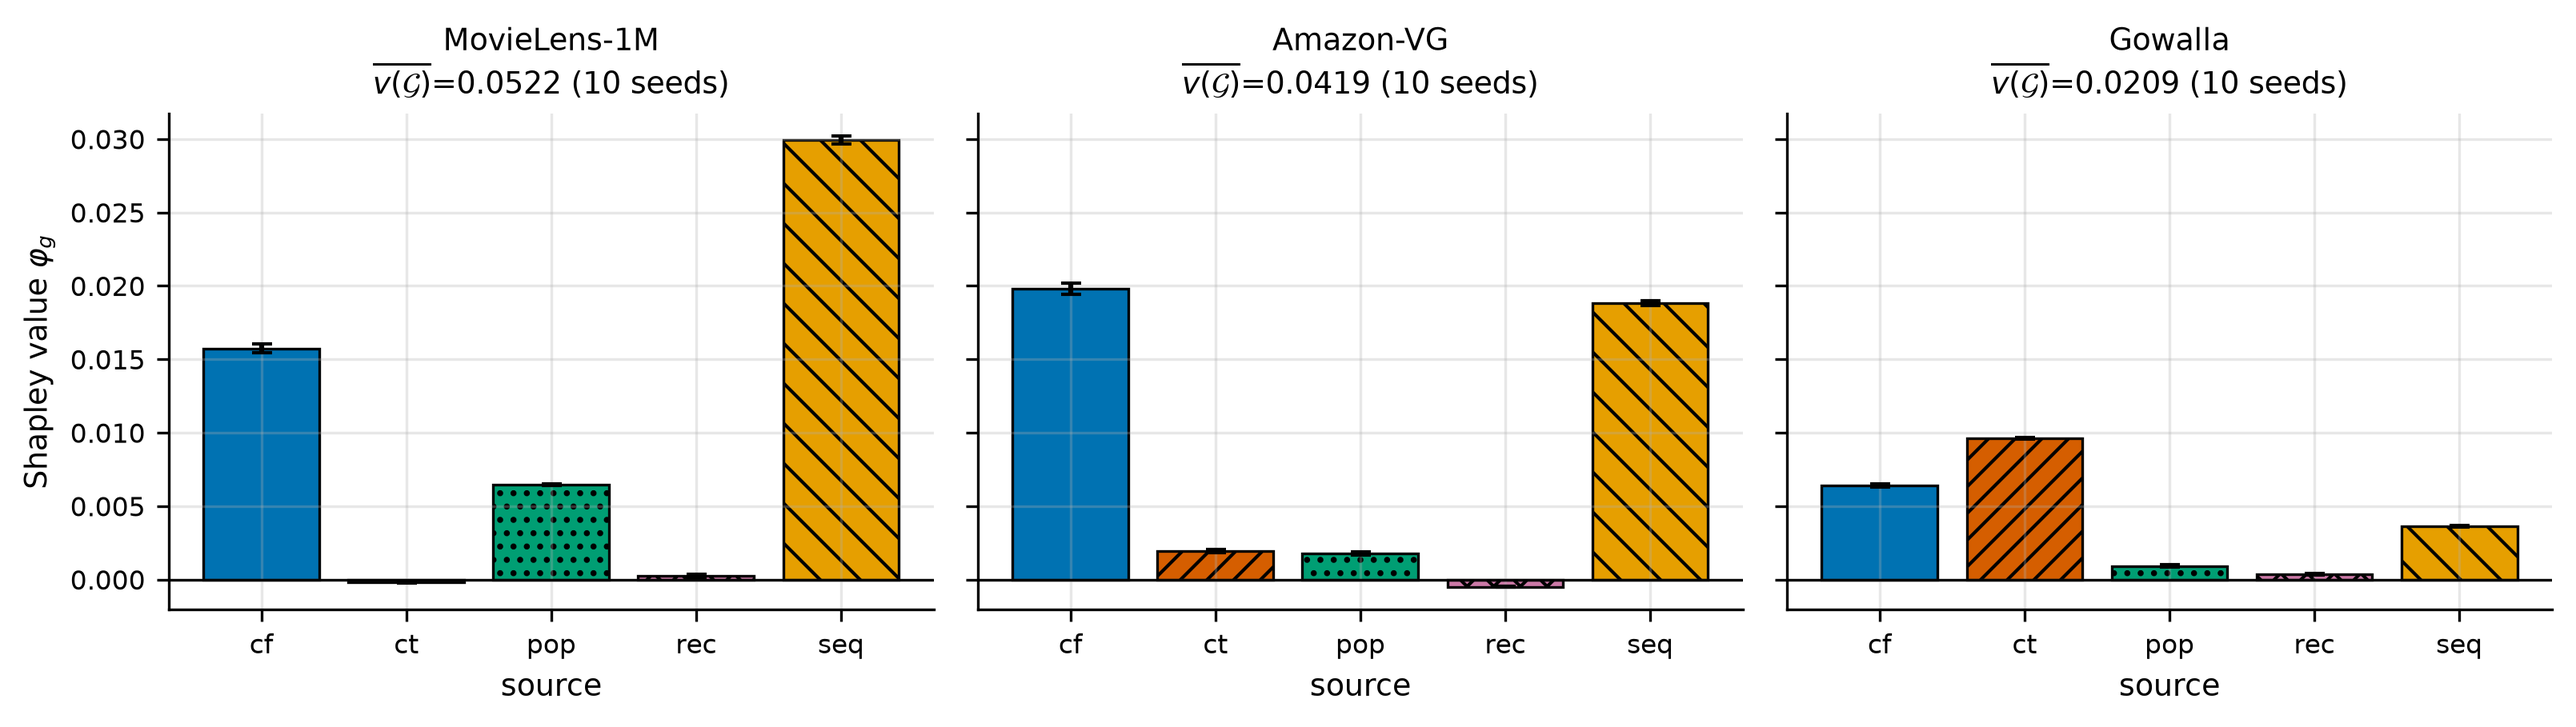
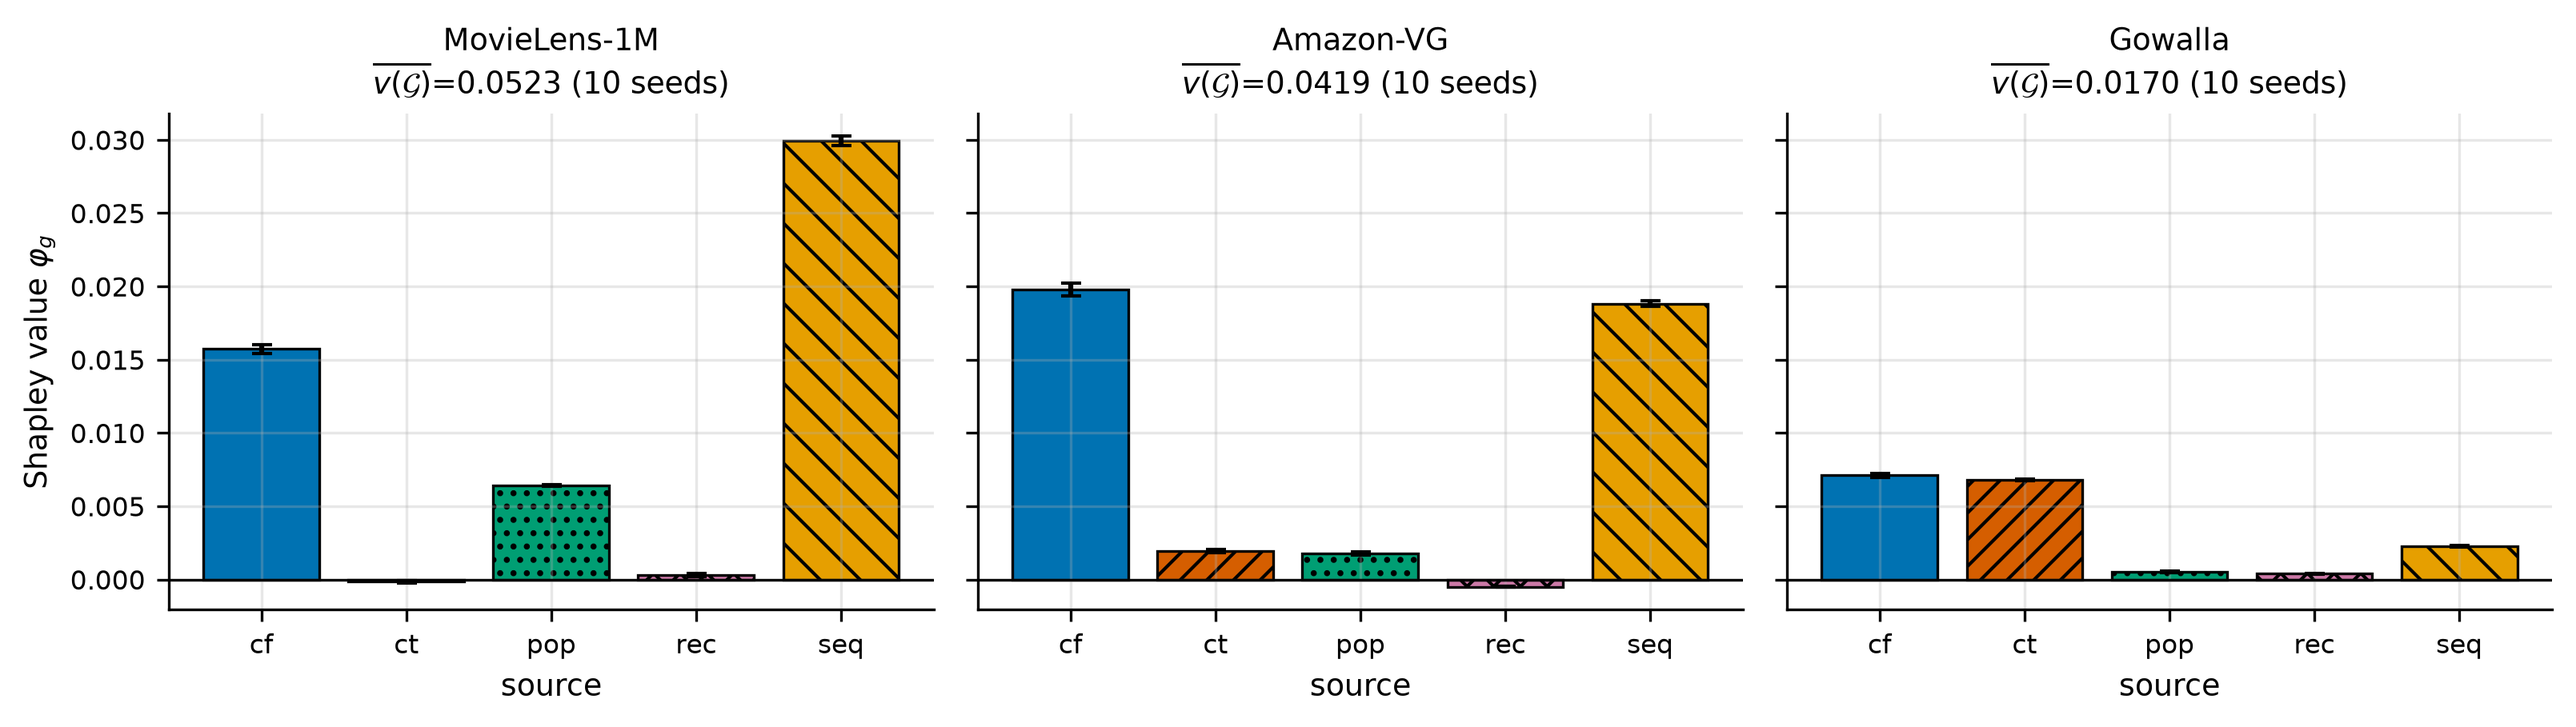
Fold in the 24 GB ten-seed run: Table 6 is now ten-seed throughout
Checked your run first. The budget guard held: 24 GB, Gowalla at the correct
8,865 x 82,134, and the artefacts carry per-seed LOO, gap, tau and the paired
bootstrap, so the code that produced them is the updated runner.

Two results changed the paper rather than confirming it, and both weaken a
claim we were making.

Gowalla's top source moved from ct to cf. The two are separated by 0.00033, and
the 12.6 GB resampling exchanges them again, so I removed the reading that a
geographic content signal was 'strong enough to rank second overall' and now
report a near-tie with no stable-top-source claim on that corpus. The
subsample paragraph said ordering and top source were unchanged under
resampling; against the new baseline that is false (tau = 0.80, top source
flips), so it now says only the signs and the material disagreement survive.

phi_ct on MovieLens is negative on 9 of 10 seeds, not 10. The Table 6 caption
asserted all fifteen cells were 10/10, which was exactly the CI-is-not-a-sign-
count error the reviewer warned about. Table 6 now carries a per-source sign
column and names the two exceptions.

What improved: both material flips now carry ten-seed gap intervals excluding
zero on all three corpora, so the Gowalla pop result no longer rests on a
seed-42 point estimate. Paired delta tau exists on every corpus (+0.76, +0.22,
+0.20; Wilcoxon p = 0.002 and 0.004, Gowalla degenerate because every
difference is identical). Amazon retirement improved to tau 0.96 and 90%.
[…]

diff --git a/paper/sn-article.tex b/paper/sn-article.tex
@@ -1610,57 +1610,43 @@ straightforward but not yet done.
 \section{Attribution on Real Systems}\label{sec:results}
 
 \begin{table}[tbp]
-\caption{LOO versus Shapley on all three corpora (seed 42). Sign
-disagreements are marked \emph{material} when the gap exceeds $10^{-3}$, the
-same threshold used for monotonicity; negligible flips are those where both
-estimates sit within noise of zero. Two of three corpora contain a material
-disagreement. The LOO, Shapley and Gap columns are seed 42, so that the gap is
-a like-for-like difference on one fitted game; the interval is over ten seeds
-and is reported here rather than only in the artefact. Under the deterministic
-baseline no interval spans zero on any corpus. An interval for the mean is not
-by itself a statement about individual seeds, so we also counted directly: all
-fifteen source-by-corpus cells have the same sign on $10$ of $10$ seeds,
-including the two near-zero cases ($\varphi_{ct}$ on MovieLens, mean
-$-0.00018$, negative on $10/10$; $\varphi_{rec}$ on Amazon-VG, mean $-0.00049$,
-negative on $10/10$) whose signs were not stable under the sampled baseline.
-Intervals are $\bar{x} \pm t_9\,\mathrm{SE}$ over the ten seeds; an earlier
-version used the normal quantile $1.96$, which is too narrow at $n = 10$, and
-widening them changes no conclusion here. The $\LOOr$ and gap columns are
-seed-42 point estimates. We have computed ten-seed intervals for both on
-MovieLens-1M, where the material $cf$ case is
-stable in every respect ($\LOOr = -0.00477$, negative on $10/10$ seeds; gap
-$= +0.02033$, $[+0.01990, +0.02077]$, positive on $10/10$). The near-zero
-sources are not stable: $\LOOr(ct)$ is positive on only $7/10$ seeds and
-$\LOOr(rec)$ on $5/10$, so the two negligible flips on this corpus are seed
-noise and we do not interpret them. Amazon-VG and Gowalla intervals for $\LOOr$
-and for the gap are not yet computed, which is a real gap in the evidence for
-the Gowalla $pop$ disagreement: that result currently rests on a seed-42 point
-estimate plus the ten-seed interval on $\varphi_{pop}$ alone. The released
-runner now records per-seed $\LOOr$ and gap on every corpus, so the next full
-run closes it.}
+\caption{$\LOOr$ versus Shapley on all three corpora. Every column is now a
+ten-seed mean over seeds $42$--$51$, so the gap is a like-for-like difference at
+the same aggregation level; an earlier version mixed a seed-42 point estimate
+with a ten-seed interval. Intervals are $\bar{x} \pm t_9\,\mathrm{SE}$, and no
+interval spans zero on any corpus. Because an interval for the mean is not a
+statement about individual seeds, the \emph{sign} column counts the seeds
+agreeing with the mean's sign directly. Thirteen of fifteen cells are $10/10$.
+The two exceptions are the near-zero MovieLens cases the paper never
+interprets: $\varphi_{ct}$ is negative on $9/10$ and $\varphi_{rec}$'s
+counterpart $\LOOr(rec)$ on $5/10$. Sign disagreements are marked
+\emph{material} when the gap exceeds $10^{-3}$, the threshold used for
+monotonicity. Both material flips, $cf$ on MovieLens and $pop$ on Gowalla,
+carry ten-seed gap intervals excluding zero ($+0.02030\ [+0.02007, +0.02053]$
+and $+0.00207\ [+0.00197, +0.00217]$) and hold on $10/10$ seeds}
 \label{tab:loo}
-\begin{tabular}{@{}llrrcrl@{}}
+\begin{tabular}{@{}llrcrcl@{}}
 \toprule
-Corpus & Source & $\LOOr$ & Shapley & 10-seed mean $[95\%$ CI$]$ & Gap & \\
-       &        & (seed 42) & (seed 42) & & (seed 42) & \\
+Corpus & Source & $\LOOr$ & Shapley $[95\%$ CI$]$ & Gap & Sign & \\
+       &        &         &                       &     & stab. & \\
 \midrule
-MovieLens-1M & $cf$ & $-0.00519$ & $+0.01545$ & $+0.01574\ [+0.01542,+0.01607]$ & $+0.02064$ & \textbf{flip, material} \\
-             & $ct$ & $+0.00044$ & $-0.00009$ & $-0.00018\ [-0.00024,-0.00011]$ & $-0.00053$ & flip, negligible \\
-             & $pop$ & $+0.00065$ & $+0.00637$ & $+0.00646\ [+0.00638,+0.00653]$ & $+0.00572$ &  \\
-             & $rec$ & $-0.00005$ & $+0.00026$ & $+0.00024\ [+0.00014,+0.00035]$ & $+0.00031$ & flip, negligible \\
-             & $seq$ & $+0.01635$ & $+0.02937$ & $+0.02992\ [+0.02962,+0.03022]$ & $+0.01302$ &  \\
+MovieLens-1M & $cf$ & $-0.00457$ & $+0.01573\ [+0.01542,+0.01604]$ & $+0.02030$ & $10/10$ & \textbf{flip, material} \\
+             & $ct$ & $+0.00052$ & $-0.00016\ [-0.00024,-0.00008]$ & $-0.00068$ & $9/10$ & flip, negligible \\
+             & $pop$ & $+0.00070$ & $+0.00643\ [+0.00638,+0.00649]$ & $+0.00573$ & $10/10$ &  \\
+             & $rec$ & $+0.00010$ & $+0.00032\ [+0.00022,+0.00042]$ & $+0.00022$ & $10/10$ & flip, negligible \\
+             & $seq$ & $+0.01745$ & $+0.02993\ [+0.02963,+0.03024]$ & $+0.01249$ & $10/10$ &  \\
 \midrule
-Amazon-VG    & $cf$ & $+0.00845$ & $+0.01926$ & $+0.01979\ [+0.01937,+0.02022]$ & $+0.01081$ &  \\
-             & $ct$ & $+0.00002$ & $+0.00187$ & $+0.00195\ [+0.00183,+0.00207]$ & $+0.00185$ &  \\
-             & $pop$ & $+0.00308$ & $+0.00157$ & $+0.00178\ [+0.00165,+0.00191]$ & $-0.00152$ &  \\
-             & $rec$ & $+0.00023$ & $-0.00047$ & $-0.00049\ [-0.00053,-0.00045]$ & $-0.00070$ & flip, negligible \\
-             & $seq$ & $+0.00758$ & $+0.01909$ & $+0.01883\ [+0.01865,+0.01900]$ & $+0.01151$ &  \\
+Amazon-VG    & $cf$ & $+0.00890$ & $+0.01980\ [+0.01937,+0.02022]$ & $+0.01089$ & $10/10$ &  \\
+             & $ct$ & $+0.00011$ & $+0.00195\ [+0.00183,+0.00207]$ & $+0.00183$ & $10/10$ &  \\
+             & $pop$ & $+0.00394$ & $+0.00178\ [+0.00166,+0.00190]$ & $-0.00216$ & $10/10$ &  \\
+             & $rec$ & $+0.00014$ & $-0.00049\ [-0.00053,-0.00046]$ & $-0.00063$ & $10/10$ & flip, negligible \\
+             & $seq$ & $+0.00761$ & $+0.01883\ [+0.01865,+0.01900]$ & $+0.01122$ & $10/10$ &  \\
 \midrule
-Gowalla      & $cf$ & $+0.00729$ & $+0.00711$ & $+0.00642\ [+0.00630,+0.00653]$ & $-0.00018$ &  \\
-             & $ct$ & $+0.00528$ & $+0.00674$ & $+0.00961\ [+0.00955,+0.00967]$ & $+0.00146$ &  \\
-             & $pop$ & $-0.00151$ & $+0.00055$ & $+0.00092\ [+0.00085,+0.00100]$ & $+0.00206$ & \textbf{flip, material} \\
-             & $rec$ & $+0.00001$ & $+0.00038$ & $+0.00035\ [+0.00030,+0.00039]$ & $+0.00037$ &  \\
-             & $seq$ & $+0.00070$ & $+0.00213$ & $+0.00360\ [+0.00354,+0.00367]$ & $+0.00143$ &  \\
+Gowalla      & $cf$ & $+0.00743$ & $+0.00711\ [+0.00698,+0.00725]$ & $-0.00032$ & $10/10$ &  \\
+             & $ct$ & $+0.00547$ & $+0.00678\ [+0.00672,+0.00683]$ & $+0.00131$ & $10/10$ &  \\
+             & $pop$ & $-0.00156$ & $+0.00051\ [+0.00046,+0.00056]$ & $+0.00207$ & $10/10$ & \textbf{flip, material} \\
+             & $rec$ & $+0.00001$ & $+0.00040\ [+0.00038,+0.00042]$ & $+0.00039$ & $10/10$ &  \\
+             & $seq$ & $+0.00093$ & $+0.00225\ [+0.00219,+0.00230]$ & $+0.00132$ & $10/10$ &  \\
 \botrule
 \end{tabular}
 \end{table}
@@ -1680,11 +1666,14 @@ corpora and we are careful to say exactly what replicates.
 
 \paragraph{What is consistent, and what is not}
 Two of the three corpora contain a \emph{material} sign disagreement, one where the gap exceeds $10^{-3}$, the same threshold we apply to monotonicity.
-On MovieLens it is $cf$: Shapley scores it $+0.01545$, the second most valuable
-source in the system, where $\LOOr$ scores it $-0.00519$ and marks it as worth
-removing. The gap is $0.02064$, or $40.2\%$ of $v(\G) = 0.05136$. On Gowalla it is $pop$, at
-$12.2\%$ of $v(\G)$: ablation scores the popularity signal negative where
-Shapley scores it positive.
+On MovieLens it is $cf$: Shapley scores it $+0.01573$, the second most valuable
+source in the system, where $\LOOr$ scores it $-0.00457$ and marks it as worth
+removing. The gap is $0.02030$ $[+0.02007, +0.02053]$, or $38.8\%$ of the
+ten-seed $v(\G) = 0.05225$, and it is positive on $10/10$ seeds. On Gowalla it
+is $pop$, at $12.2\%$ of $v(\G) = 0.01705$ and likewise $10/10$: $\LOOr$ scores
+the popularity signal negative where Shapley scores it positive. All figures in
+this paragraph are ten-seed means, so the gap and the grand value are at the
+same aggregation level.
 
 Amazon-VG has no material disagreement. Its only sign flip, on $rec$, is $0.0008$, with both estimates within noise of zero. We state this plainly because
 an earlier version of this manuscript claimed that \emph{every} system contains
@@ -1713,20 +1702,22 @@ sizes it is $9.9\%$ and $12.2\%$ of $v(\G)$. A $1.9\times$ change in corpus
 size therefore does not create or destroy it. We report the largest run
 throughout.
 
-The magnitudes, however, are \emph{not} stable, and we report this against our
-own convenience. A full ten-seed repetition at the smallest budget draws
-$4\,652$ of $8\,865$ users and $59\,597$ of $82\,134$ items, which also raises
-the frozen $N_{\max} = 11\,623$ from $14.2\%$ to $19.5\%$ of the catalogue.
-Under that resampling the Gowalla attributions move by up to $36\%$ in relative
-terms ($\varphi_{ct}$ from $0.00961$ to $0.01310$), while the source ordering,
-every sign, and the top source are unchanged (Kendall $\tau = 1.00$). The same
-repetition on MovieLens-1M and Amazon-VG, whose user caps are not budget-bound
-and whose corpora are therefore byte-identical across the two runs, reproduces
-to within $4.1\%$ and $0.2\%$ respectively, which is a genuine cross-run
-reproduction of those two corpora. The conclusion we draw is narrow: on the
-sparsest corpus the \emph{ordering} is robust to which half of the users is
-sampled, the \emph{magnitudes} are not, and Gowalla point estimates should be
-read accordingly.
+The magnitudes are \emph{not} stable, however, and neither is the top source.
+We report this against our own convenience. A full ten-seed repetition at a
+smaller memory budget draws $4\,652$ of $8\,865$ users and $59\,597$ of
+$82\,134$ items, which also raises the frozen $N_{\max} = 11\,623$ from
+$14.2\%$ to $19.5\%$ of the catalogue. Under that resampling every Gowalla sign
+is preserved and the material $pop$ flip survives, but individual values move
+by more than a factor of two, Kendall $\tau$ against the full run falls to
+$0.80$, and the top-ranked source exchanges between $cf$ and $ct$, the two
+sources the full run separates by only $0.00033$. We therefore do not claim a
+stable top source on Gowalla, and the $cf \succ ct$ ordering reported above
+should be read as a near-tie rather than a finding. The same repetition on
+MovieLens-1M and Amazon-VG, whose user caps are not budget-bound and whose
+corpora are therefore identical across the two runs, preserves the ordering
+exactly ($\tau = 1.00$, same top source). The conclusion is narrow: on the
+sparsest corpus, which is also the one that fails the recall gate by the widest
+margin, only the signs and the material disagreement survive resampling.
 
 The corollary is that a single-corpus reading would have been actively
 misleading. On MovieLens alone one would conclude that collaborative filtering
@@ -1750,13 +1741,16 @@ contribution over all $16$ coalitions in which it can appear, including those
 where nothing covers for it, and so recovers value that the overlap conceals.
 On MovieLens the collaborative signal overlaps with the sequential and
 popularity signals; on Gowalla it is the popularity signal that is covered, by
-a geographic content signal strong enough to rank second overall.
+a geographic content signal that is essentially tied with $cf$ at the top of
+the ranking ($0.00678$ against $0.00711$, an ordering that resampling
+reverses).
 
 \paragraph{Ranking stability}
 The per-corpus orderings are
 $seq \succ cf \succ pop \succ rec \succ ct$ (MovieLens),
 $cf \succ seq \succ ct \succ pop \succ rec$ (Amazon-VG), and
-$cf \succ ct \succ seq \succ pop \succ rec$ (Gowalla). Pairwise Kendall $\tau$
+$cf \succ ct \succ seq \succ pop \succ rec$ (Gowalla, where the leading pair is
+within $0.00033$ and exchanges under resampling). Pairwise Kendall $\tau$
 between corpora is $0.40$ (MovieLens--Amazon), $0.20$ (MovieLens--Gowalla) and
 $0.80$ (Amazon--Gowalla), none significant at $n=5$ sources. We therefore make no cross-corpus consistency claim. An earlier
 version of this analysis reported $\tau$ between $0.60$ and $0.80$; that
@@ -1966,10 +1960,10 @@ Corpus & $\tau$ $\LOOr$ & $\tau$ Shapley
        & $\LOOr$ correct & Shapley correct \\
        & (95\% CI) & (95\% CI) & & \\
 \midrule
-MovieLens-1M & $0.96\ [0.91, 1.00]$ & $0.20\ [0.20, 0.20]$
+MovieLens-1M & $0.96\ [0.91, 1.01]$ & $0.20\ [0.20, 0.20]$
              & $100\%\ [72, 100]$ & $0\%\ [0, 28]$ \\
-Amazon-VG    & $0.94\ [0.88, 1.00]$ & $0.76\ [0.68, 0.84]$
-             & $80\%\ [49, 94]$   & $50\%\ [24, 76]$ \\
+Amazon-VG    & $0.96\ [0.91, 1.01]$ & $0.74\ [0.68, 0.80]$
+             & $90\%\ [60, 98]$   & $50\%\ [24, 76]$ \\
 Gowalla      & $1.00\ [1.00, 1.00]$ & $0.80\ [0.80, 0.80]$
              & $100\%\ [72, 100]$ & $0\%\ [0, 28]$ \\
 \botrule
@@ -1979,18 +1973,18 @@ Gowalla      & $1.00\ [1.00, 1.00]$ & $0.80\ [0.80, 0.80]$
 \paragraph{The result holds across seeds and across all three corpora}
 An earlier version reported this from single runs on two corpora. Over ten
 seeds (Table~\ref{tab:retire-seeds}) the picture is both broader and slightly
-more measured. $\LOOr$'s mean rank agreement is $0.96$, $0.94$ and $1.00$;
-Shapley's is $0.20$, $0.76$ and $0.80$. $\LOOr$ is therefore \emph{not} perfect on every
+more measured. $\LOOr$'s mean rank agreement is $0.96$, $0.96$ and $1.00$;
+Shapley's is $0.20$, $0.74$ and $0.80$. $\LOOr$ is therefore \emph{not} perfect on every
 seed, and we correct the earlier claim that it was. It nevertheless dominates
 on every corpus, and the practical gap is starker than the correlations
 suggest: $\LOOr$ identifies the observed cheapest source to retire on $100\%$,
-$80\%$ and $100\%$ of seeds, against $0\%$, $50\%$ and $0\%$ for Shapley. On two
+$90\%$ and $100\%$ of seeds, against $0\%$, $50\%$ and $0\%$ for Shapley. On two
 of three corpora Shapley never once picks the right source to switch off. Ten
 seeds bound these proportions loosely, and we give Wilson intervals in
 Table~\ref{tab:retire-seeds} rather than let the point estimates stand alone:
 $100\%$ is $[72, 100]$ and $0\%$ is $[0, 28]$, so the separation on MovieLens
-and Gowalla survives the interval while the Amazon contrast, $[49, 94]$ against
-$[24, 76]$, does not.
+and Gowalla survives the interval while the Amazon contrast, $[60, 98]$ against
+$[24, 76]$, overlaps.
 
 \paragraph{The comparison paired by seed}
 Reporting two intervals side by side does not test their difference, and a
@@ -1998,15 +1992,17 @@ reviewer was right to ask for the paired contrast: $\tau_{\LOOr}$ and
 $\tau_{\text{Shapley}}$ are computed on the \emph{same} seed, from the same
 fitted game, against the same observed retirement loss, so the seed is a block
 and the paired difference $\Delta\tau_s = \tau_{\LOOr,s} -
-\tau_{\text{Shapley},s}$ is both the correct statistic and a tighter one. On
-MovieLens-1M and Gowalla, Shapley's correlation is identical on all ten seeds,
-so the paired difference is exactly recoverable: $\Delta\tau = +0.76$
-$[+0.70, +0.82]$ and $\Delta\tau = +0.20$ with zero variance, positive on
-$10/10$ seeds in both cases. Neither interval contains zero. On Amazon-VG both
-correlations vary across seeds and the per-seed values were not retained, so we
-cannot reconstruct the pairing after the fact and do not report it; the
-released runner now records per-seed $\tau$ and the paired bootstrap on every
-corpus. With ten seeds these intervals are indicative rather than calibrated.
+\tau_{\text{Shapley},s}$ is both the correct statistic and a tighter one. It
+favours $\LOOr$ on every corpus: $\Delta\tau = +0.76\ [+0.70, +0.80]$ on
+MovieLens-1M, $+0.22\ [+0.16, +0.28]$ on Amazon-VG, and $+0.20$ with zero
+variance on Gowalla, where both correlations are seed-constant. No interval
+contains zero. Wilcoxon signed-rank over the ten paired differences gives
+$p = 0.002$ and $p = 0.004$ on the first two corpora; on Gowalla the test is
+uninformative ($p = 1.0$) precisely because every difference is identical, so
+there is no rank variation for it to use, and the zero-width interval is the
+honest summary there. Intervals are percentile bootstraps over $10\,000$
+resamples of the ten seed-level differences; with $n = 10$ they are indicative
+rather than calibrated.
 
 The result is also consistent with the theory rather than a contradiction of
 it. Removing $cf$ \emph{improves} end-to-end NDCG@10 by $0.00542$ while

diff --git a/artefacts/PROVENANCE.md b/artefacts/PROVENANCE.md
@@ -34,17 +34,36 @@ reported sign are unaffected. See spec provenance entry 36.
 | Table 3 duplicates | `e9_recovery_ml_1m.json` | M4 | legacy | 42 |
 | Table 4 analytic games | `e13_synthetic_ground_truth.json` | any | n/a | n/a |
 | Table 5 interactions | `interaction_seed_ci_ml_1m.json` | x86 | legacy | 42-51 |
-| Table 6 LOO vs Shapley | `results_*.json` + `final_seed_ci.json` | M4 | legacy | 42 / 42-51 |
+| Table 6 LOO vs Shapley | `final_seed_ci.json` | M4 | legacy | 42-51 (all columns) |
 | Table 7 retirement | `e12_retirement_ml_1m.json` | M4 | legacy | 42 |
 | Table 8 retirement seeds | `final_retirement_seeds.json` | M4 | legacy | 42-51 |
+| Paired delta tau (Sec 13) | `final_retirement_seeds.json` `paired_delta_tau` | M4 | legacy | 42-51 |
 | Figure 2 | `final_seed_ci.json` | M4 | legacy | 42-51 |
+| LOO/gap intervals, all corpora | `final_seed_ci.json` `loo_ci`/`gap_ci` | M4 | legacy | 42-51 |
 | Figure 3 | `results_*.json` | M4 | legacy | 42 |
 | Semivalues (Sec 10.2) | `e10_values_ml_1m.json` | x86 | legacy | 42 |
 | Candidate-rule ablation (Sec 4.1) | `candidate_rule_ablation_ml_1m.json` | x86 | both | 42 |
 | Grand-pool ablation (Sec 4.1) | `results_ml_1m.json` `e8_appendix_b` | M4 | legacy | 42 |
 | Gowalla subsampling (Sec 11) | `gowalla_subsample_sensitivity.json` | M4 | legacy | 42-51 |
 | Metric robustness (Sec 11) | `metric_robustness_ml_1m.json` | x86 | legacy | 42 |
-| LOO/gap intervals (Sec 11) | `final_loo_gap_ci.json` | x86 | legacy | 42-51 |
+| LOO/gap intervals, ml_1m only (superseded) | `final_loo_gap_ci.json` | x86 | legacy | 42-51 |
+
+## Status after commit 600fd98
+
+The 24 GB ten-seed run closed the interval gaps: `final_seed_ci.json` now
+carries per-seed LOO and gap plus t_9 intervals and sign counts on all three
+corpora, and `final_retirement_seeds.json` carries per-seed tau and the paired
+bootstrap. Table 6 is now ten-seed throughout rather than mixing a seed-42
+point estimate with a ten-seed interval.
+
+Two findings from that run changed the paper rather than confirming it:
+
+- Gowalla's top source moved from `ct` to `cf`, and the two are separated by
+  only 0.00033. Under the 12.6 GB resampling they exchange again, so the paper
+  now reports a near-tie and makes no stable-top-source claim on that corpus.
+- `phi_ct` on MovieLens is negative on 9 of 10 seeds, not 10. The earlier
+  caption asserted all fifteen cells were 10/10. Table 6 now carries a
+  per-source sign column.
 
 ## Known gap, disclosed in Section 4.1
 

diff --git a/SUBMISSION_CHECKLIST.md b/SUBMISSION_CHECKLIST.md
@@ -96,7 +96,24 @@ reported). These need the machine with all three raw corpora.
 | Intro LOO scoping, "correctly reports", "ablation won it", "approaching the whole catalogue", appendix heading | Medium | **All rewritten** |
 | General semivalue equation, rec clustering, initial N_g, PPMI k_s=1, random-state | Medium | **Added to Background / Table 2** |
 
-**Not done: the full three-corpus regeneration under the symmetric candidate
+### 24 GB ten-seed run landed (commit 600fd98)
+
+Budget guard held: Gowalla loaded at the correct 8,865 x 82,134. The run closed
+every remaining interval gap, and produced two corrections:
+
+- **Gowalla's top source moved `ct` -> `cf`**, separated by only 0.00033, and
+  the 12.6 GB resampling exchanges them again. The paper now reports a near-tie
+  and drops the "content signal strong enough to rank second" reading.
+- **`phi_ct` on MovieLens is negative on 9/10 seeds, not 10/10.** The caption
+  had asserted all fifteen cells were sign-stable. Table 6 now carries a
+  per-source sign column and names the two exceptions.
+
+Both material flips survive with ten-seed gap intervals excluding zero, on all
+three corpora. Paired `delta tau` now exists everywhere: +0.76, +0.22, +0.20,
+Wilcoxon p = 0.002 and 0.004 (Gowalla degenerate, zero variance). Amazon
+retirement improved: tau 0.94 -> 0.96, cheapest-source 80% -> 90%.
+
+**Still not done: the full three-corpus regeneration under the symmetric candidate
 rule.** This is the reviewer's Critical #1 and it needs your machine. Everything
 else is closed. Run:
 
